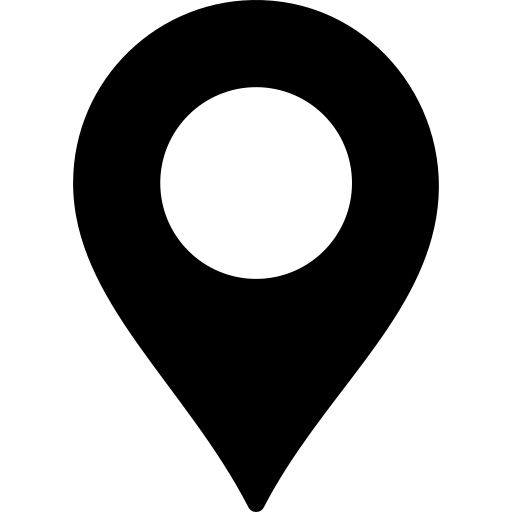
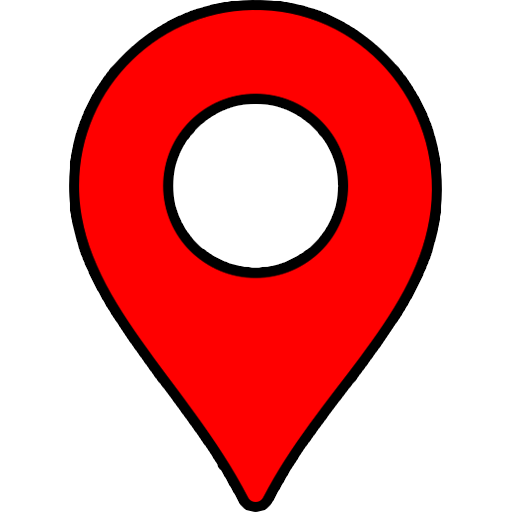
routes done

diff --git a/moverly/src/map/map.ts b/moverly/src/map/map.ts
@@ -112,22 +112,40 @@ class Map {
     this.poi = poi;
   }
 
-  showPoiPin(poi : POI){
-    this.scene.add(poi.pin);
-  }
-
-  showRoute(route : Route){
-    for (const routeLine of route.routeLines){
+  showRoute(route: Route) {
+    for (const routeLine of route.routeLines) {
       this.scene.add(routeLine);
+      gsap.killTweensOf(routeLine.material);
+      gsap.to(routeLine.material, { opacity: 1, duration: 1.5 });
+    }
+    for (const poi of route.routeList) {
+      this.scene.add(poi.pin);
+      gsap.killTweensOf(poi.pin.material);
+      gsap.to(poi.pin.material, { opacity: 1, duration: 1.5 });
     }
   }
-
-  hideRoute(route : Route){
-    for (const routeLine of route.routeLines){
-      this.scene.remove(routeLine);
+  
+  hideRoute(route: Route) {
+    const { routeLines, routeList } = route;
+  
+    const onComplete = () => {
+      for (const routeLine of routeLines) {
+        this.scene.remove(routeLine);
+      }
+      for (const poi of routeList) {
+        this.scene.remove(poi.pin);
+      }
+    };
+  
+    for (const routeLine of routeLines) {
+      gsap.killTweensOf(routeLine.material);
+      gsap.to(routeLine.material, { opacity: 0, duration: 1.5, onComplete });
+    }
+    for (const poi of routeList) {
+      gsap.killTweensOf(poi.pin.material);
+      gsap.to(poi.pin.material, { opacity: 0, duration: 1.5, onComplete });
     }
   }
-
   getMapScene(){
     return this.mapScene;
   }

diff --git a/moverly/src/map/components/routeline.ts b/moverly/src/map/components/routeline.ts
@@ -1,14 +1,24 @@
 import * as THREE from 'three';
 
-export class RouteLine extends THREE.LineSegments {
+export class RouteLine extends THREE.Line {
   constructor(start: THREE.Vector3, end: THREE.Vector3) {
-    const points = [start.clone().setZ(0.001), end.clone().setZ(0.001)];
+    const offset = 0.001;
+    const curve = new THREE.CatmullRomCurve3(
+      [start.clone().setZ(offset), end.clone().setZ(offset)],
+      false,
+      'catmullrom',
+      0.5
+    );
+    const points = curve.getPoints(1000);
     const geometry = new THREE.BufferGeometry().setFromPoints(points);
+
     const material = new THREE.LineDashedMaterial({
       color: 0xff0000,
-      linewidth: 3,
-      dashSize: 1,
-      gapSize: 0.1,
+      linewidth: 5,
+      dashSize: 0.01,
+      gapSize: 0.01,
+      opacity: 0,
+      transparent: true,
     });
 
     super(geometry, material);

diff --git a/moverly/src/map/components/pin.ts b/moverly/src/map/components/pin.ts
@@ -3,8 +3,9 @@ import * as THREE from 'three';
 export class Pin extends THREE.Sprite {
   constructor(imageUrl: string) {
     const texture = new THREE.TextureLoader().load(imageUrl);
-    const material = new THREE.SpriteMaterial({ map: texture });
+    const material = new THREE.SpriteMaterial({ map: texture, color: 0xff0000, opacity: 0 });
     super(material);
-    this.scale.set(0.03, 0.03, 1);   
+    this.scale.set(0.03, 0.03, 1);
+    
   }
 }

diff --git a/moverly/src/main.ts b/moverly/src/main.ts
@@ -53,9 +53,7 @@ const uiOverlay = document.getElementById("ui-overlay");
   const eNeRouteButton = document.getElementById("e-ne-route-button");
 
   const routesList: RouteUI[] = [];
-  console.log(map.getMapScene().routesList);
   for (const route of map.getMapScene().routesList){
-    console.log(route.name);
     switch(route.name){
       case "Zona Oeste":
         routesList.push(new RouteUI(wRouteButton, route));

diff --git a/moverly/src/scripts/uiClasses.ts b/moverly/src/scripts/uiClasses.ts
@@ -21,7 +21,6 @@ class RouteUI{
     }
   
     setRouteOpen(setOpen:boolean){
-      console.log(this.route);
       if (this.routeButton == null){return};
       this.isOpen = setOpen;
       if(setOpen){

diff --git a/moverly/src/map/components/poi.ts b/moverly/src/map/components/poi.ts
@@ -76,7 +76,5 @@ export class POI extends THREE.Mesh{
 
         this.remove(this.popup);
         this.popup = null;
-        this.scene.showPoiPin(this);
     }
-
 }   
